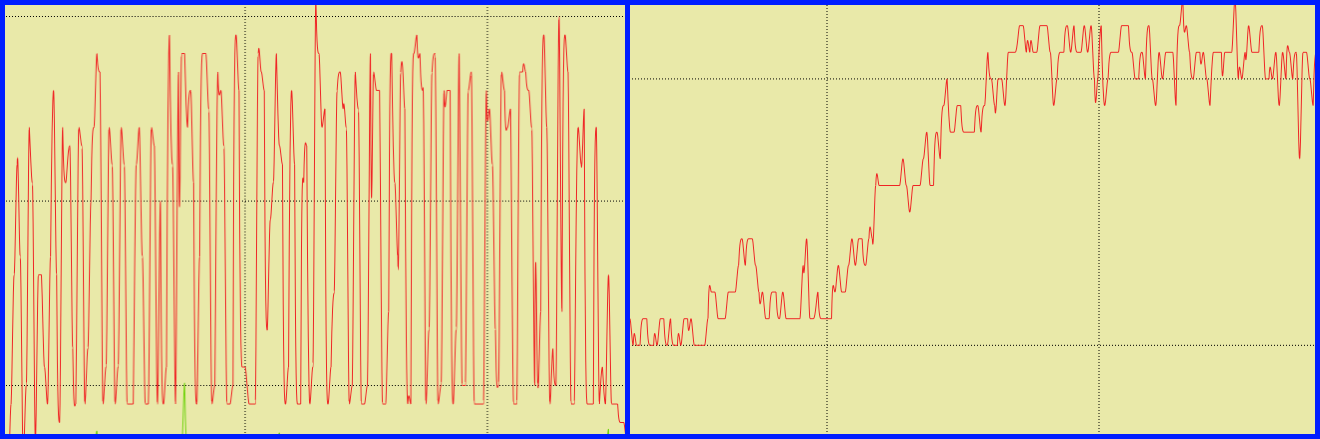
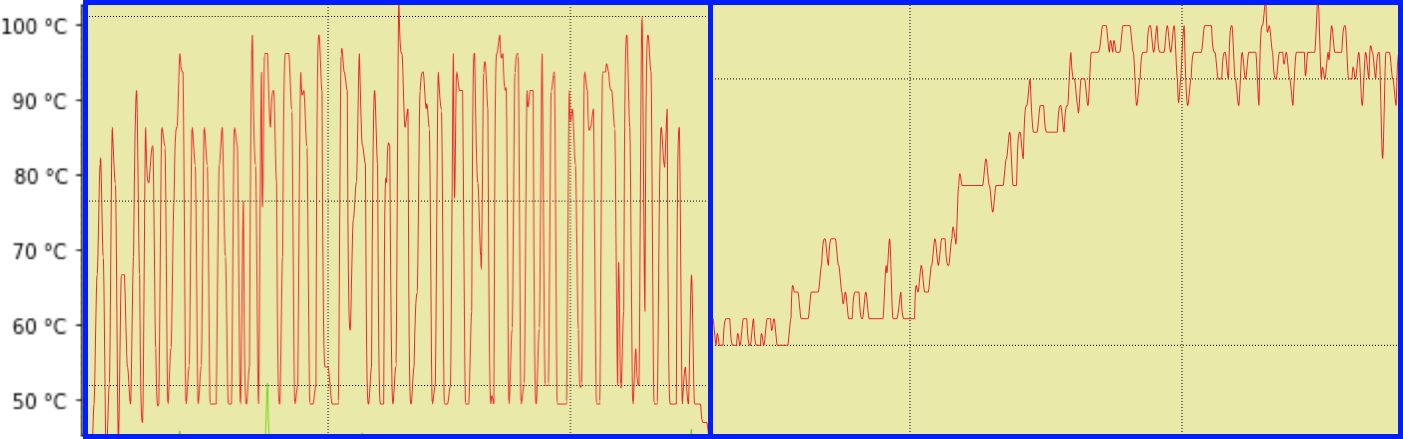
mz - Camera-ready

diff --git a/intro.tex b/intro.tex
@@ -1,17 +1,18 @@
 The Internet of Things (IoT) is a rapidly emerging set of technologies in which ordinary objects are equipped with digital intelligence -- the ability to sense, analyze, and control their environment automatically. By linking the physical and digital worlds, IoT has the potential to enhance situational awareness and effective decision-making by humans, to detect, diagnose, and remediate problems without human intervention, to assist with personal and homeland security, to optimize manufacturing and business processes, and to automate operations throughout the economy.
 
-To realize this impact, IoT must be embedded in the world around us -- within buildings, cars, roads, homes, industrial machinery, and waterways, and distributed across farms, wild open spaces, cities, and oceans. Moreover, they increasingly leverage recent advances in data analytics, machine learning (ML), and automation \textit{in-situ} -- at the edge of the network -- ``near'' (in terms of network latency) the locus of sensing and/or actuation. This move to the edge is the result of an increase in the velocity and volume of data and high response latencies imposed by the long-haul, intermittently available networks that connect the edge and cloud. Further, unlike in the context of e-commerce and other cloud application domains, IoT applications often benefit from spatial locality in terms of performance, robustness, and security. That is, co-location of processing infrastructure and IoT devices significantly reduces the latency between data acquisition and device actuation, enables the extension of device capability via local offloading, and alleviates the cost, power consumption, and congestion of network use versus the centralized, cloud-direct model~\cite{edge,bonomi2012fog,cloudlets2012satya,verbelen2012cloudlets}.
+To realize this impact, IoT must be embedded in the world around us -- within buildings, cars, roads, homes, industrial machinery, and waterways, and distributed across farms, wild open spaces, cities, and oceans. Moreover, they increasingly leverage recent advances in data analytics, machine learning (ML), and automation \textit{in-situ} -- at the edge of the network -- ``near'' (in terms of network latency) the locus of sensing and/or actuation. This move to the edge is the result of an increase in the velocity and volume of data and high response latencies imposed by the long-haul, intermittently available networks that connect the edge and cloud. Further, unlike in the context of e-commerce and other cloud application domains, IoT applications often benefit from spatial locality in terms of performance, robustness, and security. That is, co-location of processing infrastructure and IoT devices significantly reduces the latency between data acquisition and device actuation, enables the extension of device capability via local offloading, and alleviates the cost, power consumption, and congestion of network use versus the centralized, cloud-direct model~\cite{edge}.
+%~\cite{edge,bonomi2012fog,cloudlets2012satya,verbelen2012cloudlets}.
 
-Edge processing, however, introduces new challenges for IoT deployments. Unlike the devices themselves, edge computing elements are often designed for environments in which the ambient environmental conditions are controlled and kept within a narrow operational range. The operational settings in which these edge systems (in our work we deploy miniaturized ``edge clouds'' using clusters of commodity small-board computers to support IoT analytics) are deployed can be harsh, hard or costly to access, and exposed to harmful environmental elements (heat, moisture, dust, animals, other objects, humans, weather, etc.). For example, we currently support an IoT deployment for image processing and deep learning for the automatic, real-time identification of animals using camera traps deployed across UCSB Sedgwick Reserve, an ecology and wildlife educational and research reserve in California~\cite{ref:sedgwick}. The reserve is 6,000 acres that comprise critical wildlife habitats, two watersheds at the foot of Figueroa Mountain in Santa Ynez, California, and a 300-acre farm easement. Our edge clouds fuse and analyze images from within out-buildings on the property. Sedgwick yearly outdoor temperatures range between 30$^{\circ}$ and 116$^{\circ}$ Fahrenheit; within enclosures (e.g. shelters for electrical pumping equipment where grid electricity is available) our cloud systems are subjected to much higher ambient operating temperatures.
+Edge processing, however, introduces new challenges for IoT deployments. Unlike the devices themselves, edge computing elements are often designed for environments in which the ambient environmental conditions are controlled and kept within a narrow operational range. The operational settings in which these edge systems (in our work we deploy miniaturized ``edge clouds'' using clusters of commodity small-board computers to support IoT analytics) are deployed can be harsh, hard or costly to access, and exposed to harmful environmental elements (heat, moisture, dust, animals, other objects, humans, weather, etc.). For example, we currently support an IoT deployment for image processing and deep learning for the automatic, real-time identification of animals using camera traps deployed across UCSB Sedgwick Reserve, an ecology and wildlife educational and research reserve in California~\cite{ref:sedgwick}. The reserve is 6,000 acres that comprise critical wildlife habitats, two watersheds at the foot of Figueroa Mountain in Santa Ynez, California, and a 300-acre farm easement. Our edge clouds fuse and analyze images from within out-buildings on the property. Sedgwick yearly outdoor temperatures range between 30$^{\circ}$ and 116$^{\circ}$ Fahrenheit (-1.1$^{\circ}$ to 46.7$^{\circ}$ Celsius); within enclosures (e.g. shelters for electrical pumping equipment where grid electricity is available) our cloud systems are subjected to much higher ambient operating temperatures.
 
-Excessive heat can degrade the performance and reliability of devices and negatively impact their longevity (requiring more human intervention and frequent replacement). Commodity computers are particularly sensitive to high temperatures and extended exposure can cause these machines to break down, degrade in functionality, and fail prematurely -- even they are protected using operational safeguards such as throttling and automatic shutdown~\cite{ref:overheating}. For this reason, most manufacturers include an on-board thermal CPU temperature sensor and the ability to set a ``shut-down'' temperature if the CPU exceeds the manufacturer's maximum supported temperature. Figure\ref{fig:time_series} shows a time series of CPU temperature in degrees Fahrenheit gathered from one of our edge clouds deployed at Sedgwick between February 2018 and June 2020. The cut-off temperature was set to 200\degree F and the temperature drop early in the trace records the system's automatic shutdown.
+Excessive heat can degrade the performance and reliability of devices and negatively impact their longevity (requiring more human intervention and frequent replacement). Commodity computers are particularly sensitive to high temperatures and extended exposure can cause these machines to break down, degrade in functionality, and fail prematurely -- even they are protected using operational safeguards such as throttling and automatic shutdown~\cite{ref:overheating}. For this reason, most manufacturers include an on-board thermal CPU temperature sensor and the ability to set a ``shut-down'' temperature if the CPU exceeds the manufacturer's maximum supported temperature. Figure\ref{fig:time_series} shows a time series of CPU temperature in degrees Fahrenheit gathered from one of our edge clouds deployed at Sedgwick between February 2018 and June 2020. The cut-off temperature was set to 200\degree F (93.3$^{\circ}$C) and the temperature drop early in the trace records the system's automatic shutdown.
 
 \begin{figure}
 \includegraphics[width=\textwidth]{figures/time_series.png}
 \caption{The time series of CPU temperature in the edge cloud deployed at Sedgwick Natural Reserve from Feb. 28th, 2018 to Jun. 3rd, 2020. The x-axis is the epoch time and the y-axis is the CPU temperature in Fahrenheit. } \label{fig:time_series}
 \end{figure}
 
-In this paper, we investigate the use of dynamic voltage and frequency scaling (DVFS)~\cite{ref:Liu2007dvfs,ref:Wang2010dvfs,ref:Wu2013dvfs} to control system temperature when the ambient temperature might cause it to exceed the acceptable operational range. DVFS is a technique that has been widely studied in the context of ``power capping'' -- the implementation of a maximum power draw by the system.  Our system -- called \textit{Sparta} --  automatically exploits the relationship between system power consumption and generated heat.  It does so by adjusting processor frequency dynamically so that CPU temperatures do not exceed a specified threshold as ambient temperature changes.  Subject to the threshold, the system attempts to minimize the application ``slow down'' (relative to maximum CPU frequency) that frequency adjustments might introduce.  
+In this paper, we investigate the use of dynamic voltage and frequency scaling (DVFS)~\cite{ref:Liu2007dvfs,ref:Wang2010dvfs} to control system temperature when the ambient temperature might cause it to exceed the acceptable operational range. DVFS is a technique that has been widely studied in the context of ``power capping'' -- the implementation of a maximum power draw by the system.  Our system -- called \textit{Sparta} --  automatically exploits the relationship between system power consumption and generated heat.  It does so by adjusting processor frequency dynamically so that CPU temperatures do not exceed a specified threshold as ambient temperature changes.  Subject to the threshold, the system attempts to minimize the application ``slow down'' (relative to maximum CPU frequency) that frequency adjustments might introduce.  
 We use Sparta to study the relationships between CPU frequency, temperature, power dissipation, and execution behavior. Moreover, we consider IoT workloads that employ a wide range of machine learning algorithms, including image recognition, natural language processing, decision forest, and time series prediction. 
 
 %Sparta takes an application, corresponding dataset and a configurable temperature threshold as inputs and automatically schedules the workload based on the online sampling temperature data. We use the system to perform a 

diff --git a/paper.tex b/paper.tex
@@ -95,6 +95,9 @@ The goal of our work is to protect edge clouds from overheating. To enable this,
 \label{sec:conclusion}
 \input{conclusion}
 
+% cannot include this until paper is unblinded
+\subsubsection{Acknowledgments}
+This work has been supported in part by NSF (CNS-2107101, CNS-1703560, CCF-1539586, ACI-1541215), ONR NEEC (N00174-16-C-0020), and the AWS Cloud Credits for Research program. This work was performed in part at the University of California Natural Reserve System Sedgwick Reserve DOI: 10.21973 / N3C08R.
 
 %
 % ---- Bibliography ----
@@ -111,18 +114,15 @@ The goal of our work is to protect edge clouds from overheating. To enable this,
 \bibitem{edge}
 N. Hassan, S. Gillani, E. Ahmed, I. Yaqoob and M. Imran, "The Role of Edge Computing in Internet of Things," in IEEE Communications Magazine, vol. 56, no. 11, pp. 110-115, November 2018, doi: 10.1109/MCOM.2018.1700906.
 
-\bibitem{bonomi2012fog}
-Flavio Bonomi, Rodolfo Milito, Jiang Zhu, and Sateesh Addepalli. 2012. Fog computing and its role in the internet of things. In Proceedings of the first edition of the MCC workshop on Mobile cloud computing (MCC '12). Association for Computing Machinery, New York, NY, USA, 13–16. DOI:https://doi.org/10.1145/2342509.2342513
+% \bibitem{bonomi2012fog}
+% Flavio Bonomi, Rodolfo Milito, Jiang Zhu, and Sateesh Addepalli. 2012. Fog computing and its role in the internet of things. In Proceedings of the first edition of the MCC workshop on Mobile cloud computing (MCC '12). Association for Computing Machinery, New York, NY, USA, 13–16. DOI:https://doi.org/10.1145/2342509.2342513
 
-% \bibitem{cloudlets}
-% Cloudlet-based Mobile Computing
-% \url {http://elijah.cs.cmu.edu/} Last accessed 30 Apr 2021
 
-\bibitem{cloudlets2012satya}
-S. Simanta, G. A. Lewis, E. Morris, K. Ha and M. Satyanarayanan, "A Reference Architecture for Mobile Code Offload in Hostile Environments," 2012 Joint Working IEEE/IFIP Conference on Software Architecture and European Conference on Software Architecture, 2012, pp. 282-286, doi: 10.1109/WICSA-ECSA.212.46.
+% \bibitem{cloudlets2012satya}
+% S. Simanta, G. A. Lewis, E. Morris, K. Ha and M. Satyanarayanan, "A Reference Architecture for Mobile Code Offload in Hostile Environments," 2012 Joint Working IEEE/IFIP Conference on Software Architecture and European Conference on Software Architecture, 2012, pp. 282-286, doi: 10.1109/WICSA-ECSA.212.46.
 
-\bibitem{verbelen2012cloudlets}
-Tim Verbelen, Pieter Simoens, Filip De Turck, and Bart Dhoedt. 2012. Cloudlets: bringing the cloud to the mobile user. In Proceedings of the third ACM workshop on Mobile cloud computing and services (MCS '12). Association for Computing Machinery, New York, NY, USA, 29–36. DOI:https://doi.org/10.1145/2307849.2307858
+% \bibitem{verbelen2012cloudlets}
+% Tim Verbelen, Pieter Simoens, Filip De Turck, and Bart Dhoedt. 2012. Cloudlets: bringing the cloud to the mobile user. In Proceedings of the third ACM workshop on Mobile cloud computing and services (MCS '12). Association for Computing Machinery, New York, NY, USA, 29–36. DOI:https://doi.org/10.1145/2307849.2307858
 
 \bibitem{ref:sedgwick}
 Sedgwick Natural Reserve Homepage \url{https://sedgwick.nrs.ucsb.edu} Last accessed 30 Apr 2021
@@ -138,19 +138,8 @@ Liu, Yongpan, Huazhong Yang, Robert P. Dick, Hui Wang, and Li Shang. "Thermal vs
 \bibitem{ref:Wang2010dvfs}
 Wang, Lizhe, Gregor Von Laszewski, Jay Dayal, and Fugang Wang. "Towards energy aware scheduling for precedence constrained parallel tasks in a cluster with DVFS." In 2010 10th IEEE/ACM International Conference on Cluster, Cloud and Grid Computing, pp. 368-377. IEEE, 2010.
 
-% \bibitem{ref:Deng2012dvfs}
-% Deng, Qingyuan, David Meisner, Abhishek Bhattacharjee, Thomas F. Wenisch, and Ricardo Bianchini. "CoScale: Coordinating CPU and memory system DVFS in server systems." In 2012 45th annual IEEE/ACM international symposium on microarchitecture, pp. 143-154. IEEE, 2012.
 
-
-\bibitem{ref:Wu2013dvfs}
-Chia-Ming Wu, Ruay-Shiung Chang, Hsin-Yu Chan,
-A green energy-efficient scheduling algorithm using the DVFS technique for cloud datacenters,
-Future Generation Computer Systems,
-Volume 37,
-2014,
-Pages 141-147,
-ISSN 0167-739X,
-https://doi.org/10.1016/j.future.2013.06.009.
+% \bibitem{ref:Wu2013dvfs} Chia-Ming Wu, Ruay-Shiung Chang, Hsin-Yu Chan, A green energy-efficient scheduling algorithm using the DVFS technique for cloud datacenters, Future Generation Computer Systems, Volume 37, 2014, Pages 141-147, ISSN 0167-739X, https://doi.org/10.1016/j.future.2013.06.009.
 
 \bibitem{ref:sensors}
 \url{https://github.com/lm-sensors/lm-sensors} Last accessed 30 Apr 2021 

diff --git a/results.tex b/results.tex
@@ -1,4 +1,4 @@
-In this section, we empirically evaluate Sparta's performance in a series of experiments on six benchmarks, ranging from image recognition, natural language processing to random forest and time series prediction, which are implemented based on Tensorflow and executed through Sparta's actuator interface. We first overview the machine learning benchmarks that we consider and our experimental methodology. We then present our results.
+Based on the fact that most resource-demanding programs on edge cloud in our Sedgwick Natural Reserve settings are machine learning applications, in this section, we empirically evaluate Sparta's performance in a series of experiments on six benchmarks, ranging from image recognition, natural language processing to random forest and time series prediction, which are implemented based on Tensorflow and executed through Sparta's actuator interface. We first overview the machine learning benchmarks that we consider and our experimental methodology. We then present our results.
 
 \subsection{Machine Learning Benchmarks}
 
@@ -8,7 +8,7 @@ To comprehensively evaluate the efficacy and efficiency of Sparta, we implemente
 
 is an image recognition application that we use as a benchmark to train a convolutional neural network (CNN)~\cite{ref:cnn} based on ResNet50~\cite{ref:resnet}. The training dataset contains animal images from a wildlife monitoring system called "Where's The Bear" (WTB)~\cite{ref:wtb}. "Where's The Bear" is an end-to-end distributed data acquisition and analytical system that automatically analyzes camera trap images collected by cameras sited at the Sedgwick Natural Reserve~\cite{ref:sedgwick} in Santa Barbara County, California. In total, there are five classes that we consider: Bear, Coyote, Deer, Bird, and Empty, by which we label images for training tasks. We also up-sampled minority classes using the Keras Image Data Generator~\cite{ref:datagen}, since the class size is unbalanced due to the frequency of animal occurrences. Doing so ensures that the classification model is not biased. We resized every image in the dataset to $1920 \times 1080$, and for each class, the dataset contains 60 images used to train the CNN model. Once the training is complete, the application stores this model in hdf5 format in object storage. 
 
-The WTB\_Train application has a cold start at the beginning of the execution since it loads a pre-trained neural network model and a large dataset. Once it completes loading, the entire training process has relatively consistent CPU usage and temperature. 
+The WTB\_Train application has a cold start at the beginning of the execution since it loads a pre-trained neural network model and training datasets. Once it completes loading, the entire training process has relatively consistent CPU usage and temperature. 
 
 \subsubsection{WTB\_Inf}
 

diff --git a/Sparta.tex b/Sparta.tex
@@ -18,8 +18,7 @@ The control plane manages the CPU power and temperature. In the design phase, we
 \end{figure}
 
 
-The decision plane
- determines the CPU frequency based on historical and real-time temperature data throughout the execution. To provide the historical dataset, on which decision plane decides the initial CPU frequency, we collect CPU temperature and frequency data from a multi-threaded matrix multiplication (MATMUL) benchmark that simulates the underlying operations in machine learning applications. 
+The decision plane determines the CPU frequency based on historical and real-time temperature data throughout the execution. To provide the historical dataset, on which decision plane decides the initial CPU frequency, we collect CPU temperature and frequency data from a multi-threaded matrix multiplication (MATMUL) benchmark that simulates the underlying operations in machine learning applications. 
 
 We gather the data in the ambient temperature ranging from 2.6 \degree C to 43.8 \degree C to cover different thermal environments. In the experiment, we found the sequence of CPU frequency and maximum temperature in a time window demonstrate a better linear relationship than the sequence of all temperature, because of its inherent oscillating feature. To verify the correlation between MATMUL and machine learning applications, we collect the same data from an image recognition application written in Tensorflow~\cite{ref:tensorflow}. As depicted in Figure~\ref{fig:mat-vs-tf}, we found the correlated linear relationship between the CPU frequency and logarithmic delta temperature defined as $log(T_{max} - T_i)$, where $T_{max}$ is the maximum temperature sample in the time window and $T_i$ is the starting CPU temperature in idle state. 
  
